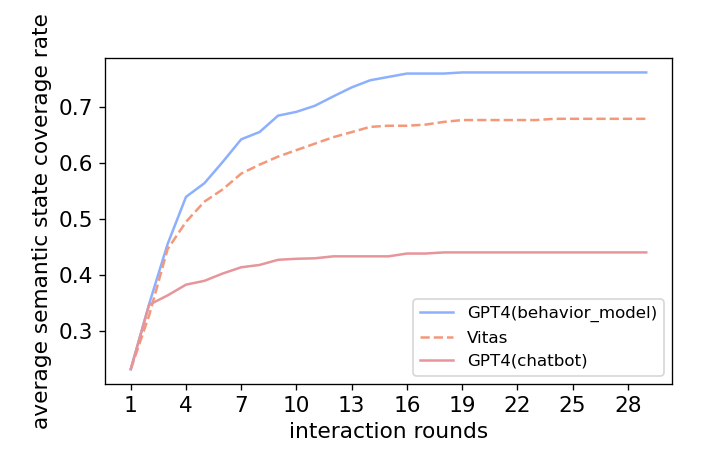
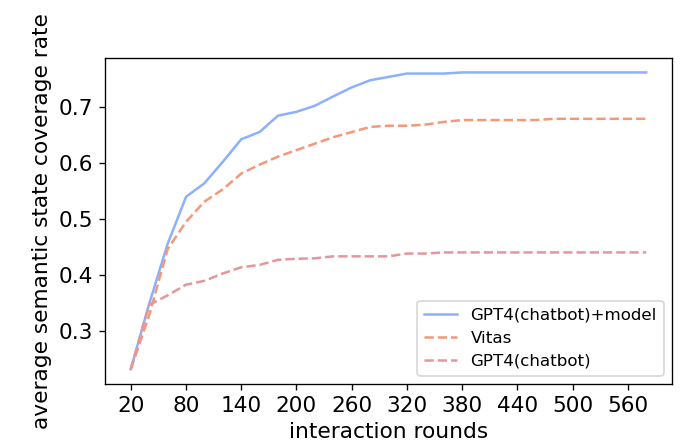
change case3

diff --git a/site/index.html b/site/index.html
@@ -254,5 +254,5 @@ python main.py
 
 <!--
 MkDocs version : 1.5.3
-Build Date UTC : 2024-12-01 14:53:02.146415+00:00
+Build Date UTC : 2024-12-01 14:53:18.676310+00:00
 -->

diff --git a/docs/coverage.md b/docs/coverage.md
@@ -7,14 +7,25 @@ Semantic states are acquired by merging sentences with similar functionalities o
 Hence, the number of semantic states represents skill's distinct functionalities.
 Using semanic state coverage rate as a metric can better reflect testers' testing sufficiency.
 
-## Why using Observer rather than human inspection as the ground-truth of semantic states?
+## Why not using the sentence state coverage rate as metric?
 
-We calculate the accuracy of Observer in extracting semantic states on the benchmark.
-The accuracy for Observer's initial classfication is 88.1%.
-After the second check of the state filter, the accuracy increases to 97.5%.
-As it costs much labour and time to get the ground-truth of 4000 apps's semantic states, we use the semantic states classified by Observer as the metric.
+The sentence states are acquired by only merging outputs with the same content.
+However, VPA apps' outputs are in the form of natural language.
+It is common for them to express the same meaning using different expressions.
+Without merging these expressions, the state space can be largely redundant.
+To prove this, we compare the sentence state space and semantic state space achieved by Elevate, Vitas and GPT4(chatbot).
+The result is shown below.
 
-## Other metric: Sentence state
+![路径](figure/compression.png)
+
+We can see that all testers achieve more sentence states than semantic states.
+The semantic states are highly abstract, as each of them represents a distinct functionality.
+As a comparison, the number of sentence states is equal to the number of different sentences, which indeed contains much redundancy due to the lack of functionality distinction.
+The results demonstrate that the number of semantic states is more capable of reflecting the sufficiency of testing as our testing object is to test as many functionalities as possible.
+Using semantic states coverage as a guidance is more helpful in achieving this goal.
+Additionally, states size maintained by Elevate is greatly reduced by only recording semantic states.
+
+## What if we use other metrics like sentence states to evaluate the coverage and efficiency?
 To demonstrate that Elevate outperforms baselines under different metrics, we compare the average **sentence state** coverage rate with varying interaction rounds in this study. 
 The total state space is set as the unique sentence states achieved by Elevate and baselines. 
 The result is shown below.
@@ -22,6 +33,15 @@ The result is shown below.
 ![路径](figure/study2_sentence.png)
 
 Under the metric of sentence states, Elevate still achieves around 15% higher average coverage rate than Vitas in a more efficient manner.
+The advantage of Elevate over Vitas is less evident under this metric because Vitas was guided by the coverage of sentence states.
+Overall, the number of semantic states is propotional to the number of sentence states as semantic states are highly abstracted sentence states.
+
+## Why using Observer rather than human inspection as the ground-truth of semantic states?
+
+We calculate the accuracy of Observer in extracting semantic states on the benchmark.
+The accuracy for Observer's initial classfication is 88.1%.
+After the second check of the state filter, the accuracy increases to 97.5%.
+As it costs much labour and time to get the ground-truth of 4000 apps's semantic states, we use the semantic states classified by Observer as the metric.
 
 ## Total state space: including states of manual testing
 In our paper, the total state space is set as the unique semantic states achieved by Elevate and baselines.

diff --git a/docs/case_study.md b/docs/case_study.md
@@ -108,16 +108,18 @@ For example, a skill called Butterball only returns an audio file after launchin
 The log looks like:
 
 ```text
-Elevate/Vitas: Alexa open butterball
+Elevate: Alexa open butterball
 Skill: <Short audio>.
-Elevate/Vitas: help
+Elevate: help
+Skill: Sounds like you want help. There are a few ways to get great Butterball turkey info. You can ask a question at any time, or you can say a topic that you'd like to learn about. Here are some topics to choose from: food allergies, grilling a turkey, or handling the neck and giblets. What would you like to do.
 ```
 
 Actually, in the audio file, it says "Welcome back to butterball. I'm Beth. We can help you with planning, preparing, cooking or enjoying a turkey. What can I help with?".
-As Elevate and Vitas do not parse the audio file for text information, the context-related inputs ["planning a turkey", "preparing a turkey", "cooking a turkey", "enjoying a turkey"] cannot be generated.
-Meanwhile, Observer in Elevate and Vitas merge all audio files into one state because they are all in the text form <Short audio\>.
-As a result, the information embeded in the audio file is not adequately used, resulting in insufficient testing of subsequent behaviors.
-
+As Elevate and Vitas do not parse the audio file, the context-related inputs ["planning a turkey", "preparing a turkey", "cooking a turkey", "enjoying a turkey"] cannot be generated.
+However, Elevate can learn from other outputs to acquire related inputs.
+By sending "help", Elevate triggered the recommended inputs offered by the skill.
+The testing can be continued using these inputs.
+In conclusion, Elevate compenstate for this drawback by learning from other outputs to guess the domain of accepted inputs.
 
 ## Case 4
 ### Music in audio files is not parsed

diff --git a/docs/weaknesses.md b/docs/weaknesses.md
@@ -10,13 +10,14 @@ The number of unique weaknesses found by Elevate and baselines with time is show
 
 The number of weaknesses detected with time is proportional to the increase of the state space with interaction rounds.
 We notice that weaknesses found by Elevate are fewer than baselines in the first two minutes.
-The reason is that Generator tends to generate meaningful inputs and Planner prefers to choose the context-related input, which are closer to natural language (see [coverage features](coverage.md#analyze-the-feature-of-state-space-achieved-by-elevate-vitas-and-manual-testing)).
+The reason is that Generator tends to generate meaningful inputs and Planner prefers to choose the context-related input when first visiting a state.
+These inputs of Elevate are closer to the natural language (see [coverage features](coverage.md#analyze-the-feature-of-state-space-achieved-by-elevate-vitas-and-manual-testing)).
 These context-related inputs help us dig out skills' deeper behavior.
 After multiple rounds of effective interactions, Elevate can find more hidden problems.
 
-As a comparison, the inputs chose by baselines lack context relavance or the natural language format.
+As a comparison, the inputs chosen by baselines lack context relevance or the natural language format.
 As skills have difficulty understanding these inputs, they are more likely to expose problems.
-However, as these inputs cannot help find deeper functionalities, baselines continue to discover shallow problems repeatly.
+However, as these inputs cannot help find deeper functionalities, baselines continue to discover shallow problems repeatedly.
 What's more, as users rarely deliberately say strange words during use, problems found by baselines are less likely to happen in practice.
 
 

diff --git a/docs/effectiveness.md b/docs/effectiveness.md
@@ -6,8 +6,8 @@ All agents work around the behavior model.
 Consequently, taking behavior model as the input is the requirement of tasks.
 If there is no behavior model guidance, the LLM will degenerate into a chatbot style tester.
 To prove the effectiveness of embedding the behavior model into prompts, we compare GPT-4 with and without behavior model as prompt. 
-GPT-4 without behavior model is represented as GPT4(chatbot), and GPT-4 with behavior model in prompts is represented as GPT4(behavior_model).
-The semantic state coverage rate acquired by GPT4(chatbot), GPT4(behavior_model) and Vitas is shown below.
+GPT-4 without behavior model is represented as GPT4(chatbot), and GPT-4 with behavior model in prompts is represented as GPT4(chatbot)+model.
+The semantic state coverage rate acquired by GPT4(chatbot), GPT4(chatbot)+model and Vitas is shown below.
 
 ![路径](figure/fse3_gpt4_w_wo_bm.png)
 
